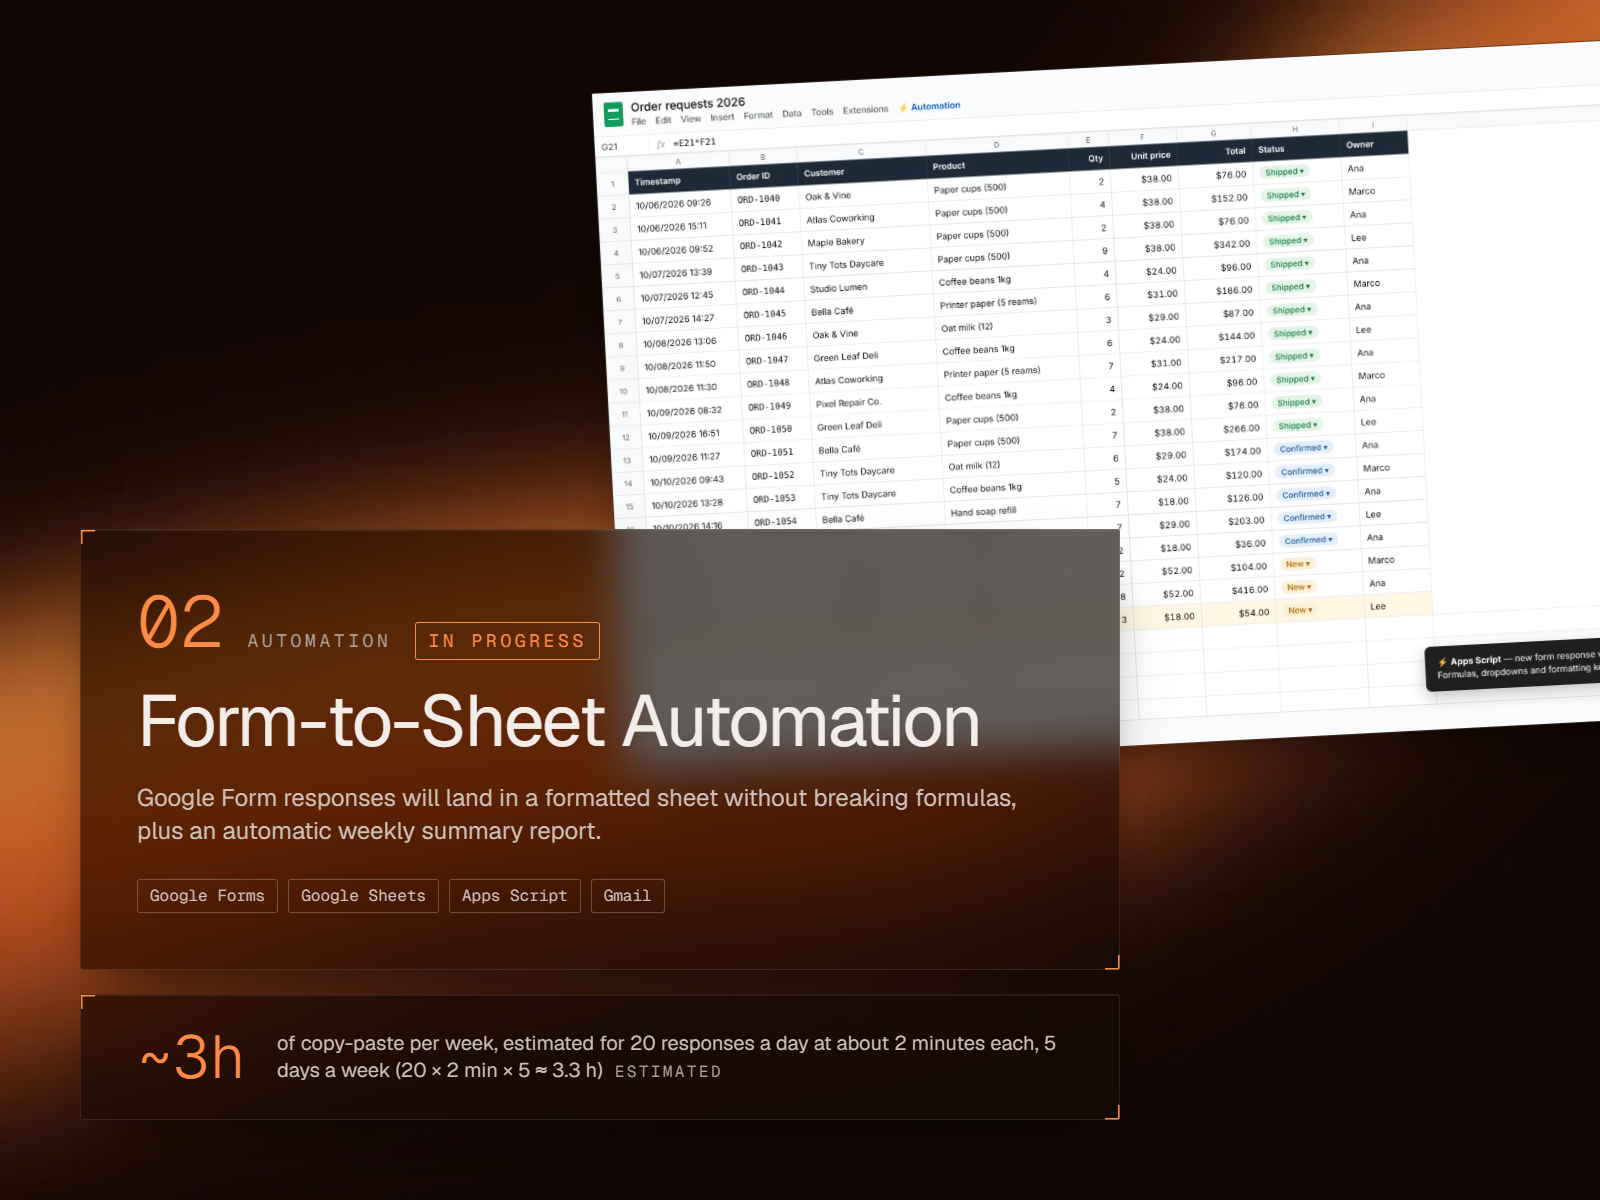
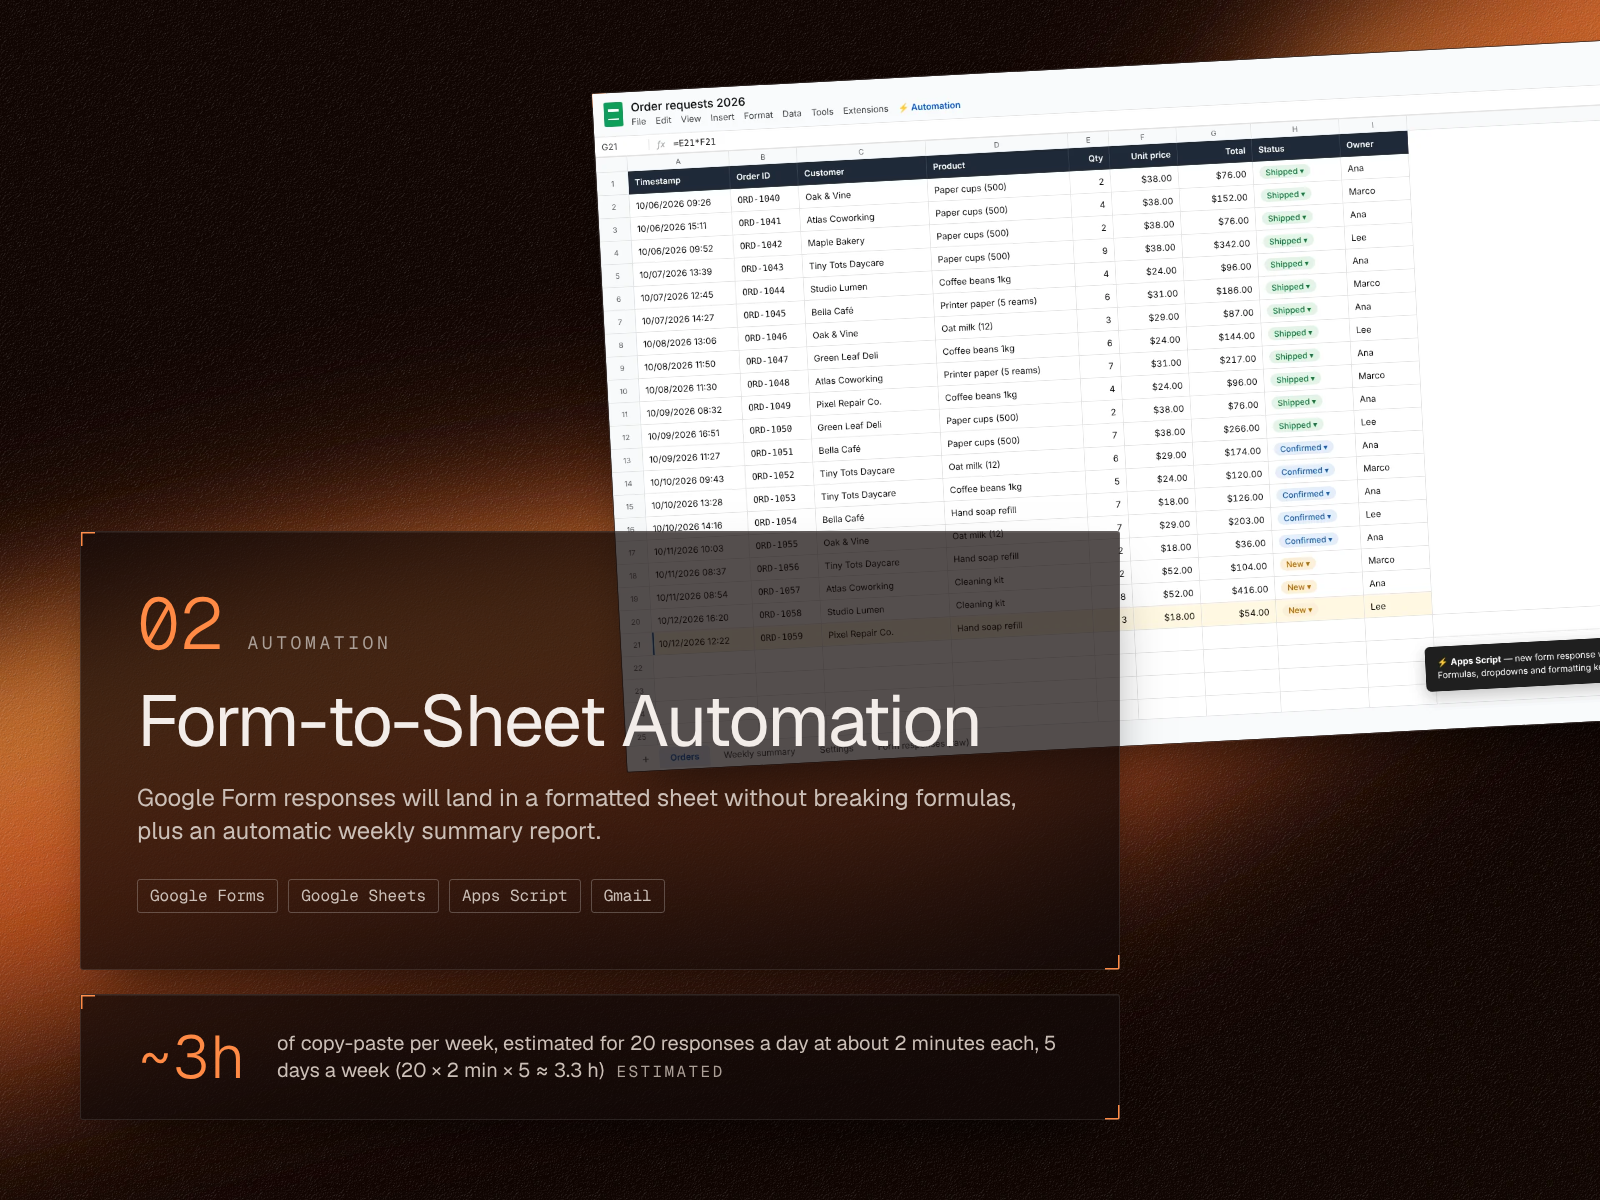
Remove the 'In progress' badge from cards, project pages, covers and OG images
The status field and the 'How I'd build it' wording stay; only the
visual badge goes.

diff --git a/src/i18n/dictionaries.ts b/src/i18n/dictionaries.ts
@@ -36,7 +36,6 @@ export interface Dictionary {
     nextProject: string;
     shotsNote: string;
     basis: { estimated: string; simulated: string; setting: string; public: string };
-    status: { inProgress: string };
   };
   theme: { dark: string; light: string; group: string };
 }
@@ -99,7 +98,6 @@ const en: Dictionary = {
     nextProject: "Next project",
     shotsNote: "Screens and videos are mock-ups of the deliverable with fictitious or simulated data.",
     basis: { estimated: "Estimated", simulated: "Simulated", setting: "Design rule", public: "Public data" },
-    status: { inProgress: "In progress" },
   },
   theme: { dark: "Dark theme", light: "Light theme", group: "Color theme" },
 };
@@ -162,7 +160,6 @@ const pt: Dictionary = {
     nextProject: "Próximo projeto",
     shotsNote: "Telas e vídeos são simulações da entrega com dados fictícios ou simulados.",
     basis: { estimated: "Estimado", simulated: "Simulado", setting: "Regra do projeto", public: "Dado público" },
-    status: { inProgress: "Em andamento" },
   },
   theme: { dark: "Tema escuro", light: "Tema claro", group: "Tema de cores" },
 };
@@ -225,7 +222,6 @@ const es: Dictionary = {
     nextProject: "Siguiente proyecto",
     shotsNote: "Las pantallas y videos son simulaciones de la entrega con datos ficticios o simulados.",
     basis: { estimated: "Estimado", simulated: "Simulado", setting: "Regla de diseño", public: "Dato público" },
-    status: { inProgress: "En curso" },
   },
   theme: { dark: "Tema oscuro", light: "Tema claro", group: "Tema de color" },
 };

diff --git a/src/app/[lang]/projects/[slug]/page.tsx b/src/app/[lang]/projects/[slug]/page.tsx
@@ -9,7 +9,6 @@ import { ContactCard } from "@/components/layout/ContactCard";
 import { FlowDiagram } from "@/components/project/FlowDiagram";
 import { MediaGallery } from "@/components/project/MediaGallery";
 import { LinkButton } from "@/components/ui/LinkButton";
-import { StatusBadge } from "@/components/ui/StatusBadge";
 import { ArrowLeft, ArrowRight, ArrowUpRight, GitHubIcon } from "@/components/ui/icons";
 
 export const dynamicParams = false;
@@ -85,7 +84,6 @@ export default async function ProjectPage({ params }: PageProps<"/[lang]/project
             <span className="label text-accent">
               {project.number} · {dict.kinds[project.kind]}
             </span>
-            {project.status === "in-progress" && <StatusBadge label={t.status.inProgress} />}
           </p>
           <h1 className="mt-4 text-balance text-[34px] leading-[1.08] tracking-tight sm:text-[46px]">{project.title}</h1>
           <p className="mt-5 max-w-[60ch] text-pretty text-[17px] leading-relaxed text-muted">{project.summary}</p>

diff --git a/src/components/home/ProjectList.tsx b/src/components/home/ProjectList.tsx
@@ -3,7 +3,6 @@ import type { Locale } from "@/i18n/config";
 import type { Dictionary } from "@/i18n/dictionaries";
 import type { Project } from "@/lib/content";
 import { ArrowRight } from "@/components/ui/icons";
-import { StatusBadge } from "@/components/ui/StatusBadge";
 import { SectionHeading } from "./SectionHeading";
 
 /**
@@ -42,7 +41,6 @@ function ProjectCard({ project: p, lang, dict }: { project: Project; lang: Local
         <div className="flex items-baseline gap-4">
           <span className="font-mono text-[44px] font-light leading-none text-accent">{p.number}</span>
           <span className="label text-faint">{dict.kinds[p.kind]}</span>
-          {p.status === "in-progress" && <StatusBadge label={dict.project.status.inProgress} />}
         </div>
         <h3 className="mt-6 text-[26px] leading-tight tracking-tight transition-colors group-hover:text-accent sm:text-[30px]">
           {p.title}

diff --git a/src/app/render/cover/[slug]/page.tsx b/src/app/render/cover/[slug]/page.tsx
@@ -30,11 +30,6 @@ export default async function RenderCover({ params }: PageProps<"/render/cover/[
             <p className="font-mono text-lg uppercase tracking-[0.2em] text-faint">
               {en.kinds[project.kind]}
             </p>
-            {project.status === "in-progress" && (
-              <p className="rounded-[3px] border border-accent px-3 py-1 font-mono text-lg uppercase tracking-[0.2em] text-accent">
-                {en.project.status.inProgress}
-              </p>
-            )}
           </div>
           <h1 className="mt-6 text-balance text-7xl font-normal leading-[1.02] tracking-tight">
             {project.title}

diff --git a/src/app/render/og/[slug]/page.tsx b/src/app/render/og/[slug]/page.tsx
@@ -28,7 +28,7 @@ export default async function RenderOg({ params }: PageProps<"/render/og/[slug]"
         <div className="card w-[760px] p-10">
           <p className="font-mono text-sm uppercase tracking-[0.2em] text-faint">
             {project
-              ? `Project ${project.number} · ${en.kinds[project.kind]}${project.status === "in-progress" ? ` · ${en.project.status.inProgress}` : ""}`
+              ? `Project ${project.number} · ${en.kinds[project.kind]}`
               : `${site.name} · ${en.role}`}
           </p>
           <h1 className="mt-4 text-balance text-5xl font-normal leading-[1.05] tracking-tight">

diff --git a/CHANGES.md b/CHANGES.md
@@ -4,7 +4,7 @@ Regra aplicada em todo o site, capas, imagens OG e textos do Upwork: só entra n
 
 ## Status dos projetos
 - Novo campo `status` em `project.json`: `built` ou `in-progress`. O build falha se faltar.
-- Só o 01 (n8n) é `built`. De 02 a 06 é `in-progress`, com o selo "In progress" / "Em andamento" / "En curso" no card da home, na página do projeto, na capa do Upwork e na imagem OG.
+- Só o 01 (n8n) é `built`. De 02 a 06 é `in-progress`. (O selo visual "Em andamento" foi removido depois, a pedido; o status continua no `project.json` e nos textos "How I'd build it".)
 - O build também falha se o título da segunda seção não bater com o status: "What I built" só para `built`, "How I'd build it" para `in-progress`, nas três línguas.
 
 ## Cenário em vez de cliente
